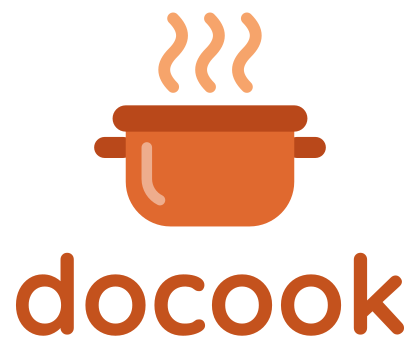
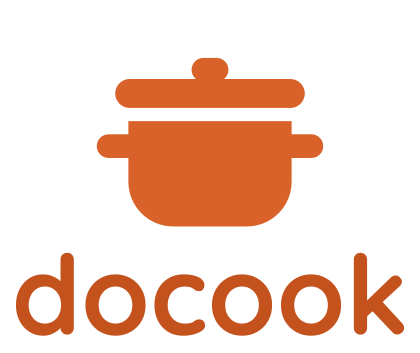
fix: 아이콘 수정

Changed region(s): [[0.2167, 0.0312, 0.7738, 0.6544], [0.65, 0.5921, 0.681, 0.6232], [0.619, 0.6232, 0.65, 0.6544]]

diff --git a/README.md b/README.md
@@ -16,12 +16,10 @@
 
 ## 로고
 
-`assets/`의 SVG가 원본, `assets/generate-logo.mjs`가 생성기(냄비 마크 + Quicksand Bold 워드마크). 파비콘·아이콘 재생성:
+`assets/docook-mark.svg`가 마크 원본(단색 벡터), `assets/generate-logo.mjs`가 마크·워드마크 SVG 생성기. 아이콘·파비콘 규칙과 재생성 명령은 dogroo [docs/icon-guide.md](../dogroo/docs/icon-guide.md) 를 따른다.
 
 ```sh
-rsvg-convert -w 406 assets/docook-text.svg | magick - -define webp:lossless=true frontend/public/logo-text.webp
+python3 ../dogroo/assets/compose-icons.py assets/docook-mark.svg '#fbe9dd' assets
 for s in 180 192 512; do rsvg-convert -w $s assets/icon.svg -o frontend/public/icons/icon-$s.png; done
 rsvg-convert -w 512 assets/icon-maskable.svg -o frontend/public/icons/icon-512-maskable.png
-rsvg-convert -w 48 assets/docook-mark.svg -o frontend/public/favicon.png
-rsvg-convert -w 256 assets/docook-mark.svg | magick - -define icon:auto-resize=48,32,16 frontend/public/favicon.ico
 ```
